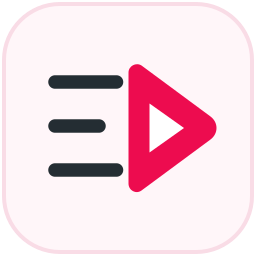
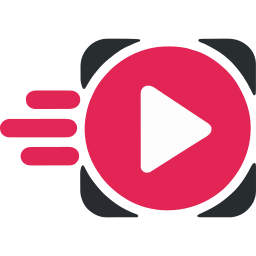
Use author-supplied Aparat player artwork

diff --git a/wordpress-org-assets/README.md b/wordpress-org-assets/README.md
@@ -8,4 +8,4 @@ Upload these files to the top-level `assets` directory of the plugin's WordPress
 - `banner-772x250.png`: standard plugin directory banner
 - `banner-1544x500.png`: high-DPI plugin directory banner
 
-The Elinweb artwork is generated by `tools/build-directory-artwork.cjs`. Its colors reference the Aparat integration, while the symbol and layout are original and the banner states that the plugin is independent. Licensed under GPL-2.0-or-later with the plugin.
+The artwork was supplied by the plugin author in `artwork-source/`. The files in this directory are generated by `tools/build-directory-artwork.cjs` at WordPress.org's standard and high-DPI sizes. Licensed under GPL-2.0-or-later with the plugin.
